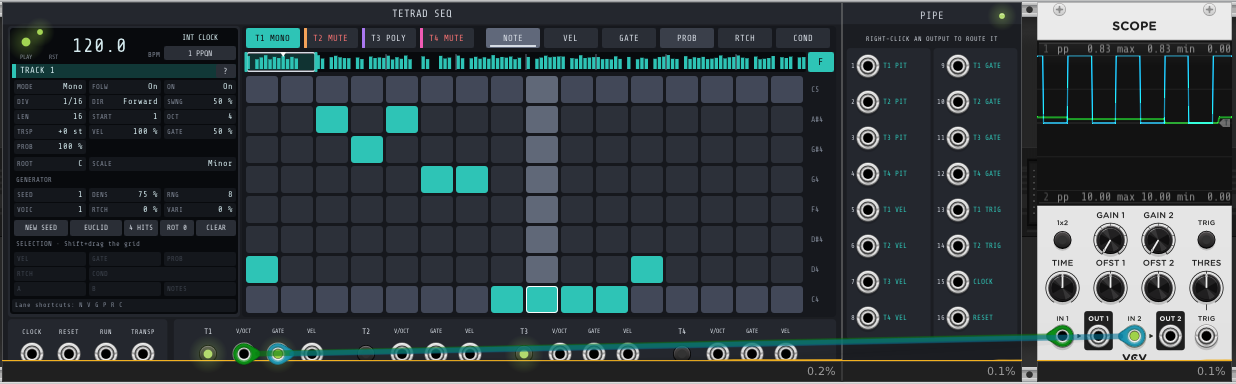
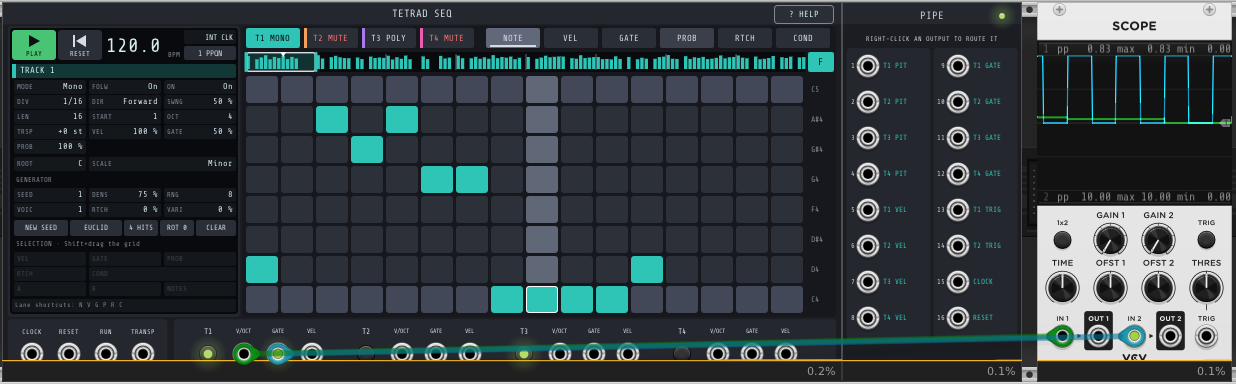
Large PLAY and RESET buttons, HELP button at the top right
PLAY and RESET become 44x30 buttons with icons, still Rack parameters
(tooltips, MIDI mapping, undo); PLAY is lit green while playing. The
small "?" of the inspector becomes a HELP button above the grid.

Changed region(s): [[0.0, 0.0625, 0.2152, 0.2188], [0.9838, 0.2812, 1.0, 0.3438], [0.6456, 0.0, 0.6764, 0.0625]]

diff --git a/src/TetradWidget.cpp b/src/TetradWidget.cpp
@@ -30,7 +30,7 @@ struct Labels : TransparentWidget {
     }
 };
 
-// Every gesture and shortcut, over the whole panel (H or the "?" button; click to close).
+// Every gesture and shortcut, over the whole panel (key H or the HELP button; click to close).
 struct HelpOverlay : OpaqueWidget {
     UiState* ui = nullptr;
 
@@ -103,6 +103,93 @@ struct HelpOverlay : OpaqueWidget {
     }
 };
 
+// PLAY (latch) and RESET (momentary) drawn as large buttons. They stay Rack parameters, so
+// tooltips, MIDI mapping and undo work as for any switch.
+struct TransportButton : app::Switch {
+    UiState* ui = nullptr;
+    bool isPlay = false;
+    bool hovered = false;
+
+    TransportButton() { box.size = kPlayRect.size; }
+
+    void onEnter(const EnterEvent& e) override
+    {
+        hovered = true;
+        ui->hint = isPlay ? "Play / stop (key Space); stop goes back to step 1" : "Back to step 1";
+        Switch::onEnter(e);
+    }
+
+    void onLeave(const LeaveEvent& e) override
+    {
+        hovered = false;
+        Switch::onLeave(e);
+    }
+
+    void drawLayer(const DrawArgs& args, int layer) override
+    {
+        if (layer != 1)
+            return Switch::drawLayer(args, layer);
+        NVGcontext* vg = args.vg;
+        ParamQuantity* q = getParamQuantity();
+        const bool on = q ? q->getValue() > 0.5f : isPlay;
+        const NVGcolor fill = on ? (isPlay ? kPlayOn : kButtonOn) : hovered ? kButtonHover : kButton;
+        const NVGcolor ink = on ? kTextDark : kText;
+        fillRect(vg, {{0, 0}, box.size}, fill, 3.f);
+        // Icon: a triangle for PLAY, a bar and a triangle pointing left for RESET.
+        const float cx = box.size.x / 2, cy = 11;
+        nvgBeginPath(vg);
+        if (isPlay) {
+            nvgMoveTo(vg, cx - 5, cy - 6);
+            nvgLineTo(vg, cx + 6, cy);
+            nvgLineTo(vg, cx - 5, cy + 6);
+        } else {
+            nvgRect(vg, cx - 7, cy - 6, 2, 12);
+            nvgMoveTo(vg, cx + 6, cy - 6);
+            nvgLineTo(vg, cx - 4, cy);
+            nvgLineTo(vg, cx + 6, cy + 6);
+        }
+        nvgClosePath(vg);
+        nvgFillColor(vg, on || !isPlay ? ink : kPlayOn);
+        nvgFill(vg);
+        setFont(vg);
+        text(vg, cx, 24, isPlay ? "PLAY" : "RESET", ink, 8.f, NVG_ALIGN_CENTER | NVG_ALIGN_MIDDLE);
+    }
+};
+
+// HELP, at the top right of the panel: every gesture and shortcut (also key H).
+struct HelpButton : OpaqueWidget {
+    UiState* ui = nullptr;
+    bool hovered = false;
+
+    void drawLayer(const DrawArgs& args, int layer) override
+    {
+        if (layer != 1)
+            return;
+        NVGcontext* vg = args.vg;
+        fillRect(vg, {{0, 0}, box.size}, ui->help ? kText : hovered ? kButtonHover : kButton, 3.f);
+        if (!ui->help)
+            strokeRect(vg, {{0, 0}, box.size}, kTextDim, 1.f, 3.f);
+        setFont(vg);
+        centered(vg, {{0, 0}, box.size}, "? HELP", ui->help ? kTextDark : kInk, 10.f);
+    }
+
+    void onButton(const ButtonEvent& e) override
+    {
+        if (e.action == GLFW_PRESS && e.button == GLFW_MOUSE_BUTTON_LEFT) {
+            ui->help = !ui->help;
+            e.consume(this);
+        }
+    }
+
+    void onEnter(const EnterEvent& e) override
+    {
+        hovered = true;
+        ui->hint = "Every gesture and shortcut (key H)";
+    }
+
+    void onLeave(const LeaveEvent& e) override { hovered = false; }
+};
+
 } // namespace
 
 struct TetradWidget : ModuleWidget {
@@ -128,12 +215,17 @@ struct TetradWidget : ModuleWidget {
         grid->box.pos = Vec(244, 26);
         addChild(grid);
 
-        // Transport, top-left of the inspector.
-        addParam(createLightParamCentered<VCVLightLatch<MediumSimpleLight<GreenLight>>>(Vec(8 + 16, 26 + 14), module,
-                                                                                       Tetrad::PLAY_PARAM,
-                                                                                       Tetrad::PLAY_LIGHT));
-        addParam(createParamCentered<VCVButton>(Vec(8 + 44, 26 + 14), module, Tetrad::RESET_PARAM));
-        addChild(createLightCentered<SmallLight<GreenLight>>(Vec(8 + 30, 26 + 4), module, Tetrad::CLOCK_LIGHT));
+        const Vec origin = inspector->box.pos;
+        for (int i = 0; i < 2; ++i) {
+            const bool play = i == 0;
+            auto* b = createParam<TransportButton>(origin.plus((play ? kPlayRect : kResetRect).pos), module,
+                                                   play ? Tetrad::PLAY_PARAM : Tetrad::RESET_PARAM);
+            b->ui = &ui;
+            b->isPlay = play;
+            b->momentary = !play;
+            addParam(b);
+        }
+        addChild(createLightCentered<SmallLight<GreenLight>>(origin.plus(kClockLightPos), module, Tetrad::CLOCK_LIGHT));
 
         auto* labels = new Labels;
         labels->box.size = box.size;
@@ -157,6 +249,12 @@ struct TetradWidget : ModuleWidget {
             }
         }
         addChild(labels);
+
+        auto* helpButton = new HelpButton;
+        helpButton->ui = &ui;
+        helpButton->box.pos = Vec(grid->box.pos.x + grid->box.size.x - 60, 3);
+        helpButton->box.size = Vec(60, 19);
+        addChild(helpButton);
 
         auto* help = new HelpOverlay;
         help->ui = &ui;

diff --git a/src/Inspector.cpp b/src/Inspector.cpp
@@ -69,10 +69,9 @@ int fieldAt(Vec p)
     return -1;
 }
 
-const math::Rect kTempoRect{{60, 2}, {92, 30}};
-const math::Rect kClockRect{{154, 2}, {72, 14}};
-const math::Rect kPpqnRect{{154, 18}, {72, 14}};
-const math::Rect kHelpRect{{206, 36}, {20, 14}};
+const math::Rect kTempoRect{{94, 2}, {78, 30}};
+const math::Rect kClockRect{{174, 2}, {52, 14}};
+const math::Rect kPpqnRect{{174, 18}, {52, 14}};
 
 enum Button { kNewSeed, kEuclid, kPulses, kRotation, kClear, kNumButtons };
 const math::Rect kButtonRects[kNumButtons] = {
@@ -146,7 +145,7 @@ void Inspector::drawLayer(const DrawArgs& args, int layer)
     const NVGcolor tc = kTrackColors[t];
     fillRect(vg, {{0, 0}, box.size}, kScreen, 3.f);
 
-    // Transport: PLAY and RESET are Rack widgets placed over the left corner.
+    // Transport: PLAY and RESET are Rack widgets placed over the left corner (kPlayRect, kResetRect).
     const bool internal = !module || !module->externalClock.load(std::memory_order_relaxed);
     const double bpm = !module ? kDefaultTempo
                        : internal ? double(module->params[Tetrad::TEMPO_PARAM].getValue())
@@ -156,18 +155,16 @@ void Inspector::drawLayer(const DrawArgs& args, int layer)
     text(vg, kTempoRect.pos.x + 2, kTempoRect.pos.y + 16, bpm > 0 ? string::f("%.1f", bpm) : "--.-", kInk, 22.f);
     text(vg, kTempoRect.pos.x + kTempoRect.size.x - 2, kTempoRect.pos.y + 25, "BPM", kTextDim, 8.f,
          NVG_ALIGN_RIGHT | NVG_ALIGN_MIDDLE);
-    centered(vg, kClockRect, internal ? "INT CLOCK" : "EXT CLOCK", internal ? kInk : tc, 9.f);
+    fillRect(vg, kClockRect, kField, 2.f);
+    text(vg, kClockRect.pos.x + kClockRect.size.x - 3, kClockRect.pos.y + kClockRect.size.y / 2 + 0.5f,
+         internal ? "INT CLK" : "EXT CLK", internal ? kInk : tc, 9.f, NVG_ALIGN_RIGHT | NVG_ALIGN_MIDDLE);
     fillRect(vg, kPpqnRect, hoverField == kHoverPpqn ? kButtonHover : kButton, 2.f);
     centered(vg, kPpqnRect, string::f("%d PPQN", kPpqnChoices[module ? module->ppqnIndex.load() : 0]), kText, 9.f);
-    text(vg, 16, 30, "PLAY", kTextDim, 7.f, NVG_ALIGN_CENTER | NVG_ALIGN_MIDDLE);
-    text(vg, 44, 30, "RST", kTextDim, 7.f, NVG_ALIGN_CENTER | NVG_ALIGN_MIDDLE);
 
     const bool on = trackValue(module, t, kTrackEnabled) != 0;
     fillRect(vg, {{2, 36}, {kW - 4, 14}}, nvgTransRGBAf(tc, 0.25f), 2.f);
     fillRect(vg, {{2, 36}, {4, 14}}, tc, 1.f);
     text(vg, 10, 43, string::f("TRACK %d%s", t + 1, on ? "" : "  · MUTED"), on ? kInk : kTextDim, 10.f);
-    fillRect(vg, kHelpRect, ui->help ? kText : kButton, 2.f);
-    centered(vg, kHelpRect, "?", ui->help ? kTextDark : kText, 10.f);
 
     text(vg, 6, 152, "GENERATOR", kTextDim, 8.f);
     const int selected = int(ui->selection.count());
@@ -413,8 +410,6 @@ void Inspector::onButton(const ButtonEvent& e)
         }
     } else if (kPpqnRect.contains(p)) {
         ppqnMenu();
-    } else if (kHelpRect.contains(p)) {
-        ui->help = !ui->help;
     } else {
         const int b = buttonAt(p);
         if (b == kPulses || b == kRotation)
@@ -508,8 +503,6 @@ void Inspector::onHover(const HoverEvent& e)
         ui->hint = "Resolution of the CLOCK input: click to choose";
     } else if (hoverButton >= 0) {
         ui->hint = kButtonHints[hoverButton];
-    } else if (kHelpRect.contains(e.pos)) {
-        ui->hint = "Show every gesture and shortcut (key H)";
     }
     OpaqueWidget::onHover(e);
 }

diff --git a/src/Tetrad.hpp b/src/Tetrad.hpp
@@ -22,7 +22,7 @@ inline constexpr int kNumPpqnChoices = int(sizeof(kPpqnChoices) / sizeof(int));
 struct Tetrad : Module {
     enum InputId { CLOCK_INPUT, RESET_INPUT, RUN_INPUT, TRANSPOSE_INPUT, NUM_INPUTS };
     enum OutputId { ENUMS(VOCT_OUTPUT, kNumTracks), ENUMS(GATE_OUTPUT, kNumTracks), ENUMS(VEL_OUTPUT, kNumTracks), NUM_OUTPUTS };
-    enum LightId { ENUMS(ON_LIGHT, kNumTracks), CLOCK_LIGHT, PLAY_LIGHT, NUM_LIGHTS };
+    enum LightId { ENUMS(ON_LIGHT, kNumTracks), CLOCK_LIGHT, NUM_LIGHTS };
     // Parameter ids 0..kNumParams-1 are the core table; these come after it.
     enum ExtraParam { TEMPO_PARAM = kNumParams, PLAY_PARAM, RESET_PARAM, NUM_PARAMS };
 

diff --git a/src/Tetrad.cpp b/src/Tetrad.cpp
@@ -52,7 +52,6 @@ Tetrad::Tetrad()
         playheadSteps[t].store(0);
     }
     configLight(CLOCK_LIGHT, "Clock");
-    configLight(PLAY_LIGHT, "Playing");
 
     for (int i = 0; i < kNumParams; ++i)
         cachedValues[i] = params[i].getValue();
@@ -139,7 +138,6 @@ void Tetrad::control(float sampleTime)
         lights[ON_LIGHT + t].setBrightness(params[trackParamIndex(t, kTrackEnabled)].getValue() > 0.5f);
     }
     lights[CLOCK_LIGHT].setBrightness(clockLight.process(sampleTime * kControlRate) ? 1.f : 0.f);
-    lights[PLAY_LIGHT].setBrightness(params[PLAY_PARAM].getValue() > 0.5f ? 1.f : 0.f);
 }
 
 void Tetrad::process(const ProcessArgs& args)

diff --git a/src/Inspector.hpp b/src/Inspector.hpp
@@ -3,6 +3,11 @@
 
 namespace ui_tetrad {
 
+// Transport widgets that TetradWidget places over the inspector (inspector coordinates).
+const math::Rect kPlayRect{{2, 2}, {44, 30}};
+const math::Rect kResetRect{{48, 2}, {44, 30}};
+const Vec kClockLightPos{180, 9};
+
 // Left half of Tetrad: transport, track settings, scale, generator and the selected steps. Every
 // value is edited where it is shown: drag vertically (Ctrl: fine), double-click for the default,
 // click a list or right-click for the values or a typed entry.

diff --git a/src/ui.hpp b/src/ui.hpp
@@ -34,6 +34,7 @@ const NVGcolor kTextOff = nvgRGB(60, 66, 76);
 const NVGcolor kInk = nvgRGB(214, 236, 240);
 const NVGcolor kSelect = nvgRGB(250, 250, 250);
 const NVGcolor kMuted = nvgRGB(240, 112, 112);
+const NVGcolor kPlayOn = nvgRGB(72, 196, 116);
 
 inline void fillRect(NVGcontext* vg, const math::Rect& r, NVGcolor c, float radius = 2.f)
 {

diff --git a/README.md b/README.md
@@ -32,7 +32,8 @@ The left half is an **inspector**: transport, the selected track's settings, roo
 the generator, and the fields of the selected steps. The right half holds the track and lane
 tabs, an overview of the 128 steps with the loop handles, the 16x8 grid and the note names of
 the rows. A help line at the bottom of the inspector describes what is under the pointer, and
-`H` shows every gesture and shortcut.
+the **HELP** button (top right, or key `H`) shows every gesture and shortcut. PLAY and RESET
+are the two large buttons at the top left of the inspector.
 
 ### Mouse
 
@@ -98,14 +99,14 @@ In the step menu and the module menu, applied to the loop of the selected track:
 | Euclid | spreads HITS pulses over the loop, rotated by ROT, on the bottom visible row |
 | Clear | turns every step of the loop off |
 
-![Help overlay (key H)](docs/vcv-help.png)
+![Help overlay (HELP button or key H)](docs/vcv-help.png)
 
 ## Jacks and clock
 
 | Jack or control | Role |
 |---|---|
-| PLAY | play / stop (on by default). Stop goes back to step 1 |
-| RST | back to step 1 |
+| PLAY | play / stop (lit green while playing, on by default). Stop goes back to step 1 |
+| RESET | back to step 1 |
 | CLOCK | external clock at the selected PPQN (1, 2, 4, 8, 12, 24, 48; default 1). Unpatched: internal clock at the inspector tempo |
 | RESET | rising edge: back to step 1 |
 | RUN | high: play, low: pause; unpatched: follows PLAY |

diff --git a/docs/DESIGN.md b/docs/DESIGN.md
@@ -14,14 +14,15 @@
 4. **Undo instead of confirmation.** Every edit, generator included, is one entry in Rack's
    history (Ctrl+Z / Ctrl+Shift+Z). Nothing asks for confirmation.
 5. **Help in context.** A help line describes what is under the pointer; `H` shows every
-   gesture and shortcut over the panel.
+   gesture and shortcut over the panel, as does the HELP button at the top right.
 
 ## Layout
 
-- **Inspector (left):** transport (PLAY, RESET, tempo, clock source, PPQN), track settings,
+- **Inspector (left):** transport (large PLAY and RESET buttons, tempo, clock source, PPQN),
+  track settings,
   root and scale, generator with its actions (NEW SEED, EUCLID with HITS and ROT, CLEAR),
   selection fields, help line.
-- **Grid (right):** track tabs (MONO, POLY, or MUTE in red), lane tabs, the 128-step overview
+- **Grid (right):** HELP button above it, track tabs (MONO, POLY, or MUTE in red), lane tabs, the 128-step overview
   (loop window, handles, visible page, playhead), the 16x8 grid, note names, markers for notes
   above or below the visible rows.
 - **Jacks:** one row at the bottom: clock, reset, run and transpose inputs, then the on switch

diff --git a/CHANGELOG.md b/CHANGELOG.md
@@ -1,5 +1,10 @@
 # Changelog
 
+## 2.6.1
+
+- Large PLAY and RESET buttons with icons; PLAY is lit green while playing.
+- HELP button at the top right of the panel (replaces the small "?" of the inspector).
+
 ## 2.6.0
 
 First public release.
